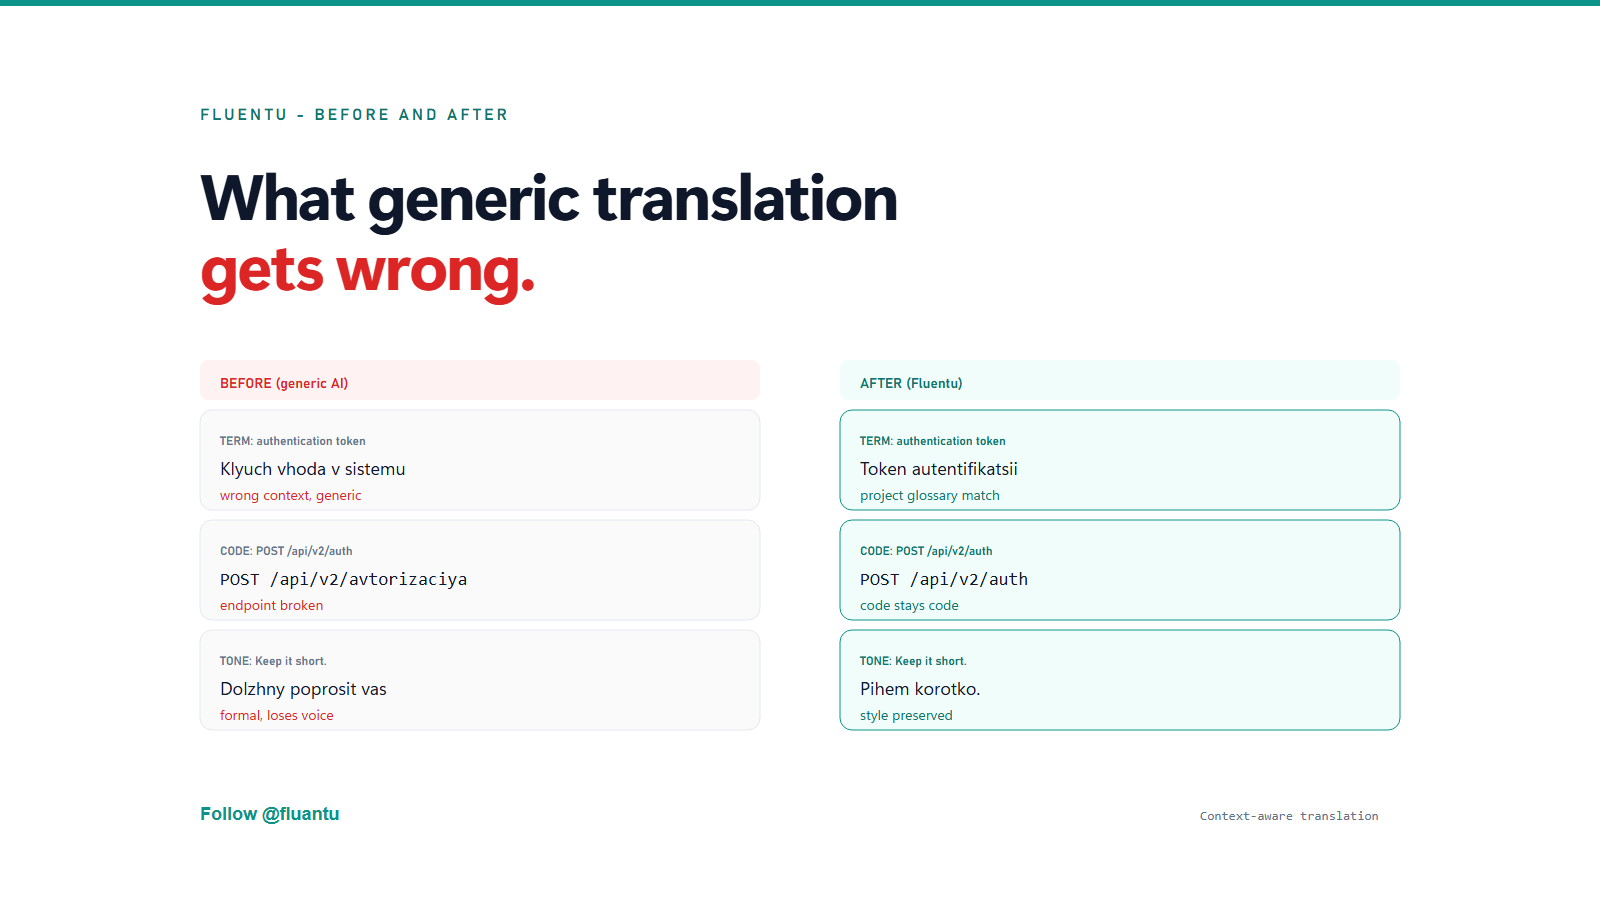
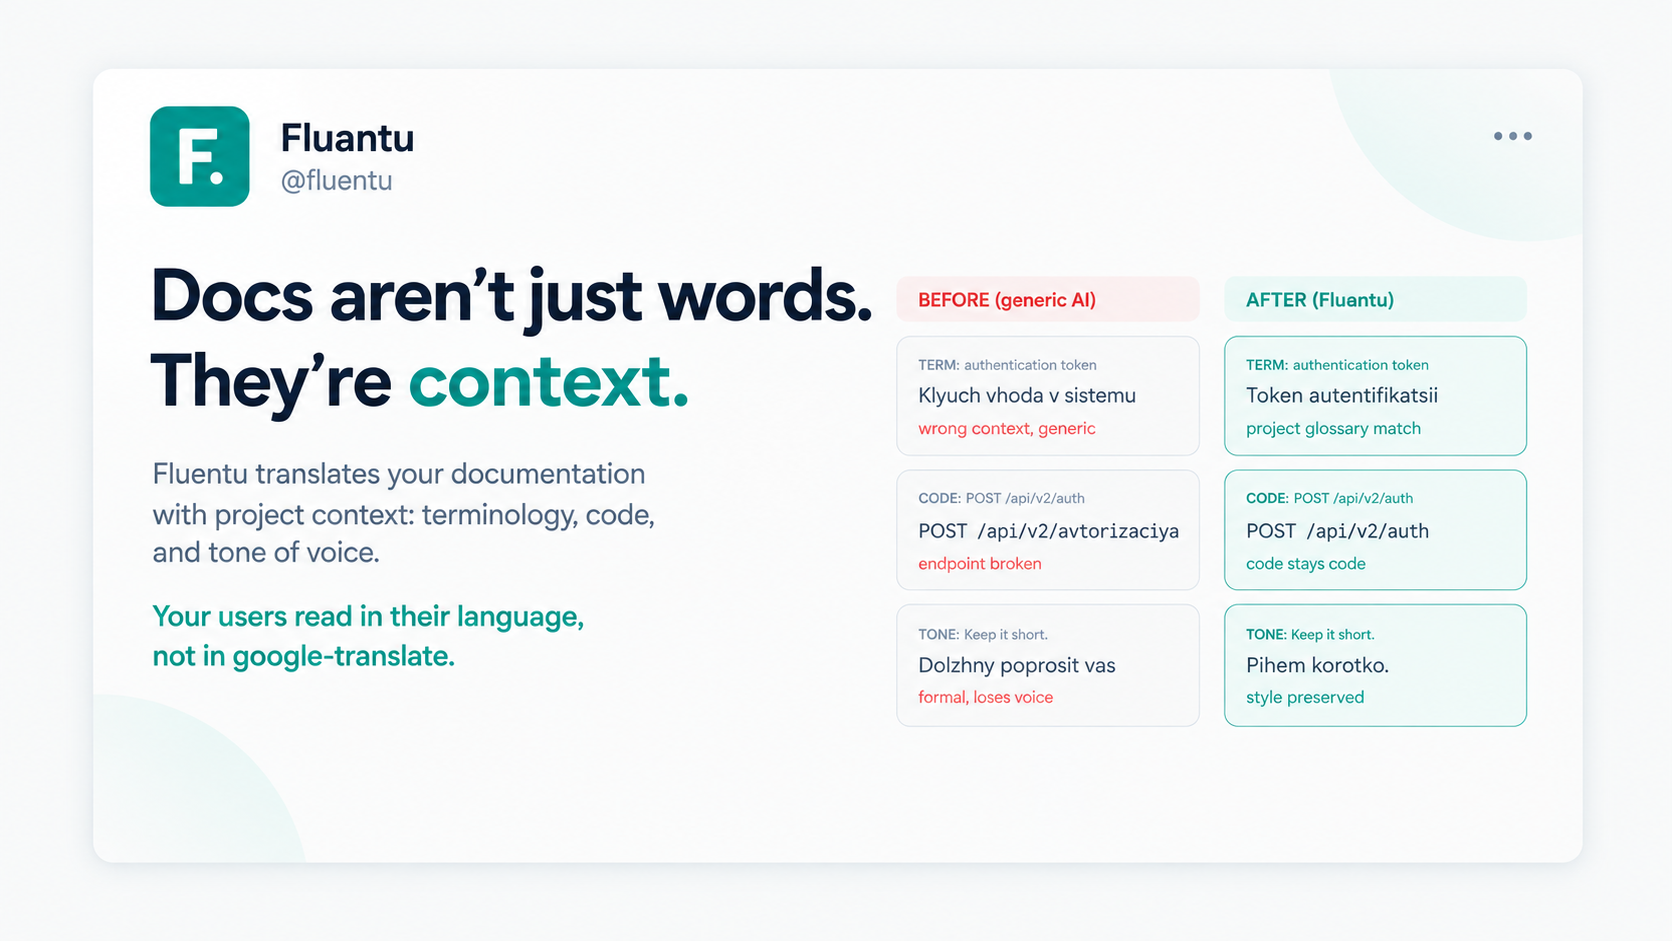
Rename Fluentu → Fluantu

diff --git a/index.html b/index.html
@@ -3,10 +3,10 @@
 <head>
 <meta charset="utf-8" />
 <meta name="viewport" content="width=device-width, initial-scale=1" />
-<title>Fluentu: AI documentation localization with project context</title>
-<meta name="description" content="Fluentu translates your docs with project context: terminology, code examples, tone of voice. Your users read in their language, not in google-translate." />
-<meta property="og:title" content="Fluentu: AI documentation localization with project context" />
-<meta property="og:description" content="Fluentu translates your docs with project context: terminology, code examples, tone of voice." />
+<title>Fluantu: AI documentation localization with project context</title>
+<meta name="description" content="Fluantu translates your docs with project context: terminology, code examples, tone of voice. Your users read in their language, not in google-translate." />
+<meta property="og:title" content="Fluantu: AI documentation localization with project context" />
+<meta property="og:description" content="Fluantu translates your docs with project context: terminology, code examples, tone of voice." />
 <meta property="og:image" content="assets/banner.png" />
 <meta property="og:type" content="website" />
 <link rel="icon" type="image/png" href="assets/logo.png" />
@@ -149,7 +149,7 @@
 
 <header class="site">
   <nav class="nav">
-    <div class="brand">Fluentu</div>
+    <div class="brand">Fluantu</div>
     <div class="nav-links">
       <a href="#features">Features</a>
       <a href="#how">How it works</a>
@@ -166,7 +166,7 @@
     <div>
 
       <h1 class="display">Docs that read like they were written <em>in every language</em>.</h1>
-      <p class="lead">Fluentu translates your technical documentation with project context: terminology, code examples, tone of voice. Your users read in their language, not in google-translate.</p>
+      <p class="lead">Fluantu translates your technical documentation with project context: terminology, code examples, tone of voice. Your users read in their language, not in google-translate.</p>
       <div class="hero-actions">
         <a class="btn btn-primary" href="https://x.com/fluantu" target="_blank" rel="noopener">Follow the build on X ↗</a>
         <a class="btn btn-ghost" href="#how">See how it works</a>
@@ -204,12 +204,12 @@
     <div class="sec-head">
       <span class="kicker">Why</span>
       <h2 class="display">Most translations lose the project.</h2>
-      <p class="lead">Generic translation tools don't know your product. They translate words, not meaning. Fluentu learns your project's context and keeps it across every language.</p>
+      <p class="lead">Generic translation tools don't know your product. They translate words, not meaning. Fluantu learns your project's context and keeps it across every language.</p>
     </div>
     <div class="grid3">
       <div class="card"><div class="ic ic-teal">⇢</div><h3>Terminology stays</h3><p>Your "authentication token" stays consistent across all docs and all languages. No more "login key" in one place and "auth token" in another.</p><div class="foot">project glossary, auto-synced</div></div>
-      <div class="card"><div class="ic ic-ai">↻</div><h3>Code stays code</h3><p>Code blocks, API endpoints, and CLI commands are never translated. Fluentu knows what's prose and what's code.</p><div class="foot">code-safe by design</div></div>
-      <div class="card"><div class="ic ic-teal">✕</div><h3>Tone of voice</h3><p>Your docs sound like you, not like a translation machine. Fluentu adapts to your style: formal, casual, or somewhere in between.</p><div class="foot">style guide, learned once</div></div>
+      <div class="card"><div class="ic ic-ai">↻</div><h3>Code stays code</h3><p>Code blocks, API endpoints, and CLI commands are never translated. Fluantu knows what's prose and what's code.</p><div class="foot">code-safe by design</div></div>
+      <div class="card"><div class="ic ic-teal">✕</div><h3>Tone of voice</h3><p>Your docs sound like you, not like a translation machine. Fluantu adapts to your style: formal, casual, or somewhere in between.</p><div class="foot">style guide, learned once</div></div>
     </div>
   </div>
 </section>
@@ -219,7 +219,7 @@
     <div class="sec-head">
       <span class="kicker">Before &amp; After</span>
       <h2 class="display">See the difference context makes.</h2>
-      <p class="lead">Generic AI translation breaks your docs. Fluentu keeps them intact.</p>
+      <p class="lead">Generic AI translation breaks your docs. Fluantu keeps them intact.</p>
     </div>
     <div class="ba-grid">
       <div class="ba-card red">
@@ -230,7 +230,7 @@
       </div>
       <div class="ba-arrow">→</div>
       <div class="ba-card green">
-        <div class="ba-label">After (Fluentu)</div>
+        <div class="ba-label">After (Fluantu)</div>
         <div class="ba-row"><span class="tag tag-term">TERMIN</span><span><b>Authentifizierungs-Token</b><span class="sub">Projekt-Glossar Treffer.</span></span></div>
         <div class="ba-row"><span class="tag tag-code">CODE</span><span><code>POST /api/v2/auth</code><span class="sub">Code bleibt Code.</span></span></div>
         <div class="ba-row"><span class="tag tag-tone">TON</span><span><b>Halten Sie es kurz.</b><span class="sub">Stil bewahrt.</span></span></div>
@@ -244,11 +244,11 @@
     <div class="band">
       <span class="kicker">How it works</span>
       <h2 class="display">From one language to many. Without the mess.</h2>
-      <p>Connect your docs, let Fluentu learn your project, then ship translations that actually sound like your product.</p>
+      <p>Connect your docs, let Fluantu learn your project, then ship translations that actually sound like your product.</p>
       <div class="steps">
-        <div class="step"><div class="num">01</div><h4>Connect your docs</h4><p>Link your Git repo, Notion workspace, or markdown files. Fluentu reads your documentation structure and builds a project glossary.</p></div>
-        <div class="step"><div class="num">02</div><h4>AI translates with context</h4><p>Fluentu translates using your terminology, code examples, and tone of voice. Every translation is checked against your style guide.</p></div>
-        <div class="step"><div class="num">03</div><h4>Ship in every language</h4><p>Publish translated docs alongside your source. When you update the source, Fluentu flags what needs re-translation.</p></div>
+        <div class="step"><div class="num">01</div><h4>Connect your docs</h4><p>Link your Git repo, Notion workspace, or markdown files. Fluantu reads your documentation structure and builds a project glossary.</p></div>
+        <div class="step"><div class="num">02</div><h4>AI translates with context</h4><p>Fluantu translates using your terminology, code examples, and tone of voice. Every translation is checked against your style guide.</p></div>
+        <div class="step"><div class="num">03</div><h4>Ship in every language</h4><p>Publish translated docs alongside your source. When you update the source, Fluantu flags what needs re-translation.</p></div>
       </div>
     </div>
   </div>
@@ -259,7 +259,7 @@
     <div class="sec-head">
       <span class="kicker">Use cases</span>
       <h2 class="display">Built for technical writers who ship.</h2>
-      <p class="lead">Whether you maintain API docs, tutorials, or release notes — Fluentu keeps your voice across languages.</p>
+      <p class="lead">Whether you maintain API docs, tutorials, or release notes — Fluantu keeps your voice across languages.</p>
     </div>
     <div class="cases-grid">
       <div class="case"><div class="case-icon">📚</div><h3>API Documentation</h3><p>Your endpoints, schemas, and error codes stay consistent in every language.</p><ul><li>Endpoint names never change</li><li>Error messages localized correctly</li><li>Code samples stay runnable</li></ul></div>
@@ -287,10 +287,10 @@
 <section id="faq">
   <div class="wrap">
     <div class="sec-head"><span class="kicker">FAQ</span><h2 class="display">Common questions.</h2></div>
-    <div class="faq-item" onclick="this.classList.toggle('open')"><div class="faq-q">Does Fluentu replace human translators?</div><div class="faq-a">No. It handles the first pass — fast, consistent, context-aware. Human translators review and refine. You get speed without sacrificing quality.</div></div>
+    <div class="faq-item" onclick="this.classList.toggle('open')"><div class="faq-q">Does Fluantu replace human translators?</div><div class="faq-a">No. It handles the first pass — fast, consistent, context-aware. Human translators review and refine. You get speed without sacrificing quality.</div></div>
     <div class="faq-item" onclick="this.classList.toggle('open')"><div class="faq-q">What languages do you support?</div><div class="faq-a">We launch with English, Spanish, German, French, Japanese, Korean, and Portuguese. More languages are added based on customer demand.</div></div>
-    <div class="faq-item" onclick="this.classList.toggle('open')"><div class="faq-q">How do you handle code blocks?</div><div class="faq-a">Code is never translated. Fluentu identifies code blocks, inline code, and API references, and leaves them untouched. Comments inside code are translated separately.</div></div>
-    <div class="faq-item" onclick="this.classList.toggle('open')"><div class="faq-q">Where is my data stored?</div><div class="faq-a">Your docs and glossaries stay in your environment. Fluentu processes translations without storing your content permanently. Self-hosted deployment is on the roadmap.</div></div>
+    <div class="faq-item" onclick="this.classList.toggle('open')"><div class="faq-q">How do you handle code blocks?</div><div class="faq-a">Code is never translated. Fluantu identifies code blocks, inline code, and API references, and leaves them untouched. Comments inside code are translated separately.</div></div>
+    <div class="faq-item" onclick="this.classList.toggle('open')"><div class="faq-q">Where is my data stored?</div><div class="faq-a">Your docs and glossaries stay in your environment. Fluantu processes translations without storing your content permanently. Self-hosted deployment is on the roadmap.</div></div>
     <div class="faq-item" onclick="this.classList.toggle('open')"><div class="faq-q">Can I try it before committing?</div><div class="faq-a">Yes. We offer a free trial with 1,000 words so you can see the quality before you pay. No credit card required.</div></div>
   </div>
 </section>
@@ -299,7 +299,7 @@
   <div class="wrap cta">
     <span class="kicker">Early access</span>
     <h2 class="display">The build is public.</h2>
-    <p>Follow the project on X. When Fluentu opens, it opens. No forms, no waitlist, nothing to sign up for.</p>
+    <p>Follow the project on X. When Fluantu opens, it opens. No forms, no waitlist, nothing to sign up for.</p>
     <a class="btn btn-primary" href="https://x.com/fluantu" target="_blank" rel="noopener">Follow @fluantu on X ↗</a>
   </div>
 </section>
@@ -307,12 +307,12 @@
 <footer>
   <div class="wrap">
     <div class="f-grid">
-      <div class="f-brand"><div class="brand">Fluentu</div><p>AI documentation localization with project context. Terminology, code examples, tone of voice — kept across every language.</p></div>
+      <div class="f-brand"><div class="brand">Fluantu</div><p>AI documentation localization with project context. Terminology, code examples, tone of voice — kept across every language.</p></div>
       <div class="f-col"><h5>Product</h5><a href="#features">Features</a><a href="#how">How it works</a><a href="#pricing">Pricing</a><a href="#faq">FAQ</a></div>
-      <div class="f-col"><h5>Company</h5><a href="mailto:admin@fluantu.com">Contact</a><a href="https://x.com/fluantu" target="_blank" rel="noopener">X (Twitter)</a><div>Fluentu LLC</div></div>
-      <div class="f-col"><h5>Legal</h5><a href="mailto:admin@fluantu.com">Privacy request</a><div>© 2026 Fluentu LLC</div><div>San Francisco, CA</div></div>
+      <div class="f-col"><h5>Company</h5><a href="mailto:admin@fluantu.com">Contact</a><a href="https://x.com/fluantu" target="_blank" rel="noopener">X (Twitter)</a><div>Fluantu LLC</div><div>535 Mission St,<br/>San Francisco, CA 94105, USA</div></div>
+      <div class="f-col"><h5>Legal</h5><a href="mailto:admin@fluantu.com">Privacy request</a><div>© 2026 Fluantu LLC</div><div>San Francisco, CA</div></div>
     </div>
-    <div class="f-legal"><span>© 2026 Fluentu LLC</span><span>California, United States</span><span>CCPA: no personal data is collected on this site.</span><a href="mailto:admin@fluantu.com">Privacy request → admin@fluantu.com</a></div>
+    <div class="f-legal"><span>© 2026 Fluantu LLC</span><span>California, United States</span><span>CCPA: no personal data is collected on this site.</span><a href="mailto:admin@fluantu.com">Privacy request → admin@fluantu.com</a></div>
   </div>
 </footer>
 
